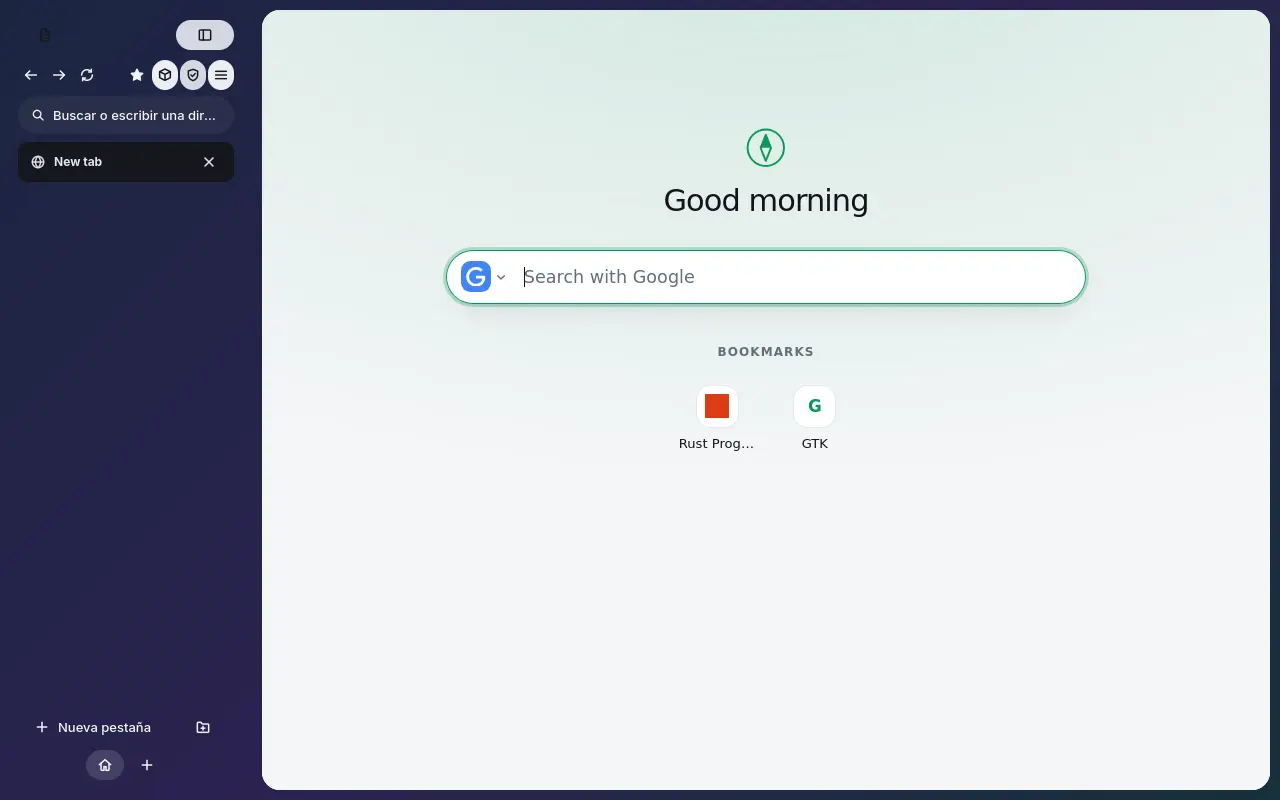
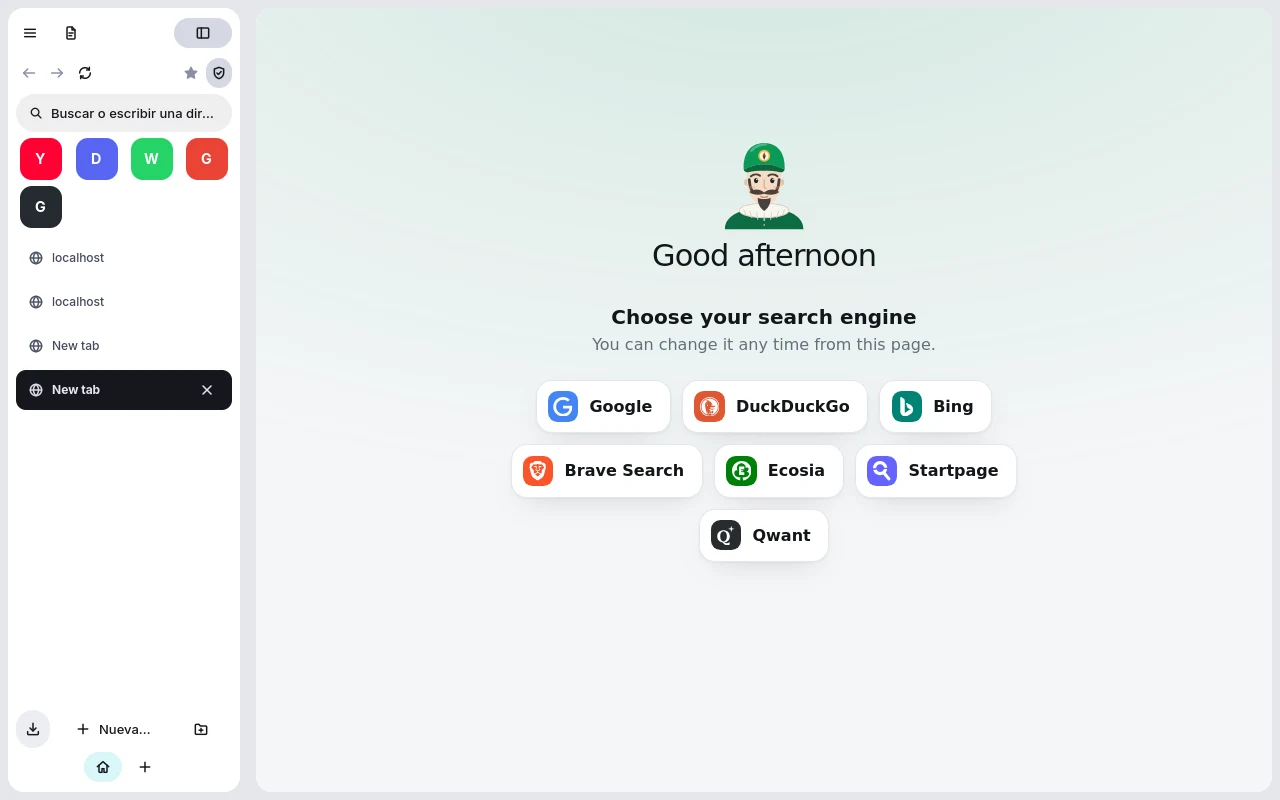
Documentación y capturas de esenciales, descargas y mascota
Claude-Session: https://claude.ai/code/session_018FLRxXoJvfsNBfNQRgqbHZ

diff --git a/docs/brujula-rust.md b/docs/brujula-rust.md
@@ -157,6 +157,14 @@ Código: núcleo sin interfaz en `crates/brujula-core/src/ext/` (manifiesto, paq
 - Quitar una aplicación (Preferencias) borra su lanzador, su perfil y su entrada. El primer favicon que carga la aplicación pasa a ser el icono del lanzador si no había uno.
 - **Sin verificar**: cámara y micrófono en una videollamada real, que cada lanzador agrupe bien en un escritorio real (solo se probó la ventana y la creación en un X virtual), y el inicio de sesión con ventanas emergentes (las aplicaciones no abren ventanas emergentes de la web: un «Iniciar sesión con…» que las use no funcionará). No hay contraseñas guardadas, extensiones ni notificaciones dentro de las aplicaciones.
 
+## Esenciales, descargas y carpetas anidadas
+
+- **Esenciales** (`essentials.rs`, `browser/essentials.rs`): hasta 12 sitios web (solo `http(s)`, sin usuario en la dirección) guardados en `essentials.json`. Con las pestañas en la barra lateral salen como una cuadrícula de iconos bajo la barra de direcciones; con las pestañas arriba, como una columna a la izquierda de la página. Un clic va a la pestaña de ese sitio en el espacio actual, o la abre. Se añaden desde el menú («Añadir a esenciales»), el menú de una pestaña o Preferencias → Esenciales (con una lista de sitios habituales); clic derecho en un icono: abrir en pestaña nueva, mover o quitar. Mientras el icono del sitio no se conoce se dibuja una letra sobre el color de la marca; al visitar el sitio se guarda su icono. **No** ocultan la pestaña de la lista y no son una sola pestaña compartida entre espacios (cada espacio abre la suya).
+- **Descargas** (`browser/downloads_panel.rs`): botón abajo a la izquierda de la barra lateral (en la barra de arriba con las pestañas arriba) con la lista de lo descargado en la sesión: progreso, cancelar, abrir y mostrar en la carpeta. Las reglas de qué se guarda (nombre limpio, ejecutables bloqueados) siguen en `downloads.rs`. La lista no se guarda entre sesiones.
+- **Carpetas anidadas** (`folders.rs`): una carpeta puede estar dentro de otra hasta tres niveles (menú de la carpeta: «Nueva subcarpeta», «Meter en la carpeta…», «Sacar de la carpeta»). Plegar una carpeta oculta lo que tiene dentro; al borrarla, las de dentro suben un nivel. Un archivo de sesión dañado (bucles, padres que no existen) se corrige al leerlo. La sincronización no lleva la jerarquía.
+- **Iconos de aplicaciones web** (`tile.rs`): el icono del sitio va sobre un cuadrado redondeado (claro, u oscuro si el icono es casi blanco), como los iconos de aplicación de Colloid.
+- **Diálogos** (`dialogs.rs`): avisos y preguntas con los diálogos de Nodalia Design sobre la ventana, no los de GTK.
+
 ## Pendiente
 
 - Arrastrar para reordenar pestañas (el modelo ya lo soporta), grupos de pestañas.

diff --git a/README.md b/README.md
@@ -42,6 +42,7 @@ Solo Linux (GTK 4.20 o más y WebKitGTK 6.0).
 
 - **Rápido y ligero**: WebKit, pestañas que se duermen solas, la sesión se carga bajo demanda.
 - **Seguro**: HTTPS primero, certificados malos nunca se saltan, descargas ejecutables bloqueadas, permisos denegados por defecto, ITP activado.
+- **Esenciales**: los sitios de todos los días (YouTube, Discord, correo…) como iconos en la barra lateral, en todos los espacios.
 - **Bloqueador de anuncios** con listas EasyList, EasyPrivacy y uBlock (reglas de red de WebKit, reglas cosméticas y scriptlets), activable por sitio.
 - **Personalizable**: tema, acento, marco con degradados, redondeo, separación, disposición (islas, marco, vertical, horizontal), espacios con icono, Boosts (CSS por sitio), buscador a elegir.
 - **Extensiones de Chromium**: scripts de contenido, fondo, ventana emergente, opciones, almacenamiento, mensajes, reglas de bloqueo… Se instalan desde una carpeta, un `.crx` o la Chrome Web Store, con un aviso de permisos. No todas las extensiones funcionarán: ver [docs/brujula-rust.md](docs/brujula-rust.md).
